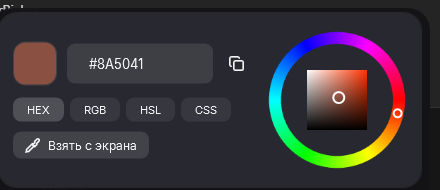
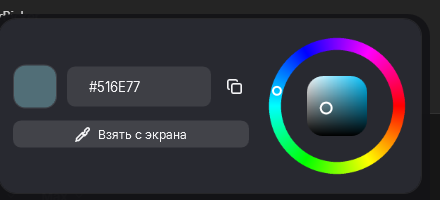
style(colorpicker): hex-only compact card, truly rounded SV square

diff --git a/src/DynamicIsland/Views/ColorPickerView.xaml b/src/DynamicIsland/Views/ColorPickerView.xaml
@@ -14,7 +14,7 @@
             <ColumnDefinition Width="Auto" />
         </Grid.ColumnDefinitions>
 
-        <StackPanel Grid.Column="0" Margin="0,0,14,0" VerticalAlignment="Center">
+        <StackPanel Grid.Column="0" Margin="0,0,16,0" VerticalAlignment="Center">
             <!-- Swatch + hex + copy -->
             <Grid Height="44">
                 <Grid.ColumnDefinitions>
@@ -46,58 +46,10 @@
                 </Button>
             </Grid>
 
-            <!-- Copy formats -->
-            <StackPanel Orientation="Horizontal" Margin="0,12,0,0">
-                <Button Content="HEX" Command="{Binding CopyHexCommand}">
-                    <Button.Style>
-                        <Style TargetType="Button" BasedOn="{StaticResource ChipButton}">
-                            <Style.Triggers>
-                                <DataTrigger Binding="{Binding ActiveFormat}" Value="HEX">
-                                    <Setter Property="Background" Value="#2EFFFFFF" />
-                                </DataTrigger>
-                            </Style.Triggers>
-                        </Style>
-                    </Button.Style>
-                </Button>
-                <Button Content="RGB" Command="{Binding CopyRgbCommand}">
-                    <Button.Style>
-                        <Style TargetType="Button" BasedOn="{StaticResource ChipButton}">
-                            <Style.Triggers>
-                                <DataTrigger Binding="{Binding ActiveFormat}" Value="RGB">
-                                    <Setter Property="Background" Value="#2EFFFFFF" />
-                                </DataTrigger>
-                            </Style.Triggers>
-                        </Style>
-                    </Button.Style>
-                </Button>
-                <Button Content="HSL" Command="{Binding CopyHslCommand}">
-                    <Button.Style>
-                        <Style TargetType="Button" BasedOn="{StaticResource ChipButton}">
-                            <Style.Triggers>
-                                <DataTrigger Binding="{Binding ActiveFormat}" Value="HSL">
-                                    <Setter Property="Background" Value="#2EFFFFFF" />
-                                </DataTrigger>
-                            </Style.Triggers>
-                        </Style>
-                    </Button.Style>
-                </Button>
-                <Button Content="CSS" Command="{Binding CopyCssCommand}">
-                    <Button.Style>
-                        <Style TargetType="Button" BasedOn="{StaticResource ChipButton}">
-                            <Style.Triggers>
-                                <DataTrigger Binding="{Binding ActiveFormat}" Value="CSS">
-                                    <Setter Property="Background" Value="#2EFFFFFF" />
-                                </DataTrigger>
-                            </Style.Triggers>
-                        </Style>
-                    </Button.Style>
-                </Button>
-            </StackPanel>
-
             <!-- Eyedropper -->
             <Button Style="{StaticResource TextButton}"
-                    HorizontalAlignment="Left"
-                    Margin="0,10,0,0"
+                    HorizontalAlignment="Stretch"
+                    Margin="0,12,0,0"
                     Command="{Binding PickCommand}">
                 <StackPanel Orientation="Horizontal">
                     <Path Data="{StaticResource IconPipette}" Style="{StaticResource Icon}" Width="15" Height="15" />

diff --git a/src/DynamicIsland/Views/ColorWheel.xaml b/src/DynamicIsland/Views/ColorWheel.xaml
@@ -10,11 +10,12 @@
 
         <Border x:Name="SvBox"
                 Width="60" Height="60"
-                CornerRadius="14"
-                ClipToBounds="True"
                 HorizontalAlignment="Center"
                 VerticalAlignment="Center">
             <Grid>
+                <Grid.Clip>
+                    <RectangleGeometry Rect="0,0,60,60" RadiusX="16" RadiusY="16" />
+                </Grid.Clip>
                 <Rectangle x:Name="SvBase" />
                 <Rectangle>
                     <Rectangle.Fill>

diff --git a/src/DynamicIsland/ViewModels/ColorPickerViewModel.cs b/src/DynamicIsland/ViewModels/ColorPickerViewModel.cs
@@ -30,18 +30,6 @@ public sealed partial class ColorPickerViewModel : ObservableObject
     private string _hexText = string.Empty;
 
     [ObservableProperty]
-    private string _rgbText = string.Empty;
-
-    [ObservableProperty]
-    private string _hslText = string.Empty;
-
-    [ObservableProperty]
-    private string _cssText = string.Empty;
-
-    [ObservableProperty]
-    private string _activeFormat = "HEX";
-
-    [ObservableProperty]
     private bool _isPicking;
 
     [ObservableProperty]
@@ -83,16 +71,7 @@ public sealed partial class ColorPickerViewModel : ObservableObject
     }
 
     [RelayCommand]
-    private void CopyHex() => Copy(HexText, "HEX");
-
-    [RelayCommand]
-    private void CopyRgb() => Copy(RgbText, "RGB");
-
-    [RelayCommand]
-    private void CopyHsl() => Copy(HslText, "HSL");
-
-    [RelayCommand]
-    private void CopyCss() => Copy(CssText, "CSS");
+    private void CopyHex() => _clipboard.SetText(HexText);
 
     [RelayCommand]
     private async Task PickAsync()
@@ -137,18 +116,9 @@ public sealed partial class ColorPickerViewModel : ObservableObject
         _syncing = false;
 
         HexText = ColorMath.ToHex(color);
-        RgbText = ColorMath.ToRgbText(color);
-        HslText = ColorMath.ToHslText(color);
-        CssText = ColorMath.ToCssText(color);
         SwatchBrush = new SolidColorBrush(color);
 
         _saveTimer.Stop();
         _saveTimer.Start();
-    }
-
-    private void Copy(string text, string format)
-    {
-        _clipboard.SetText(text);
-        ActiveFormat = format;
     }
 }
